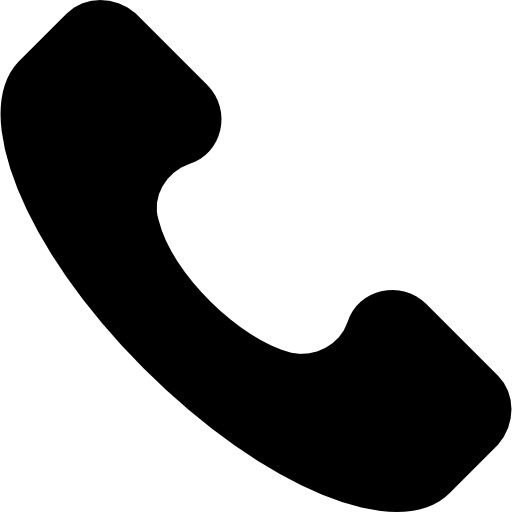
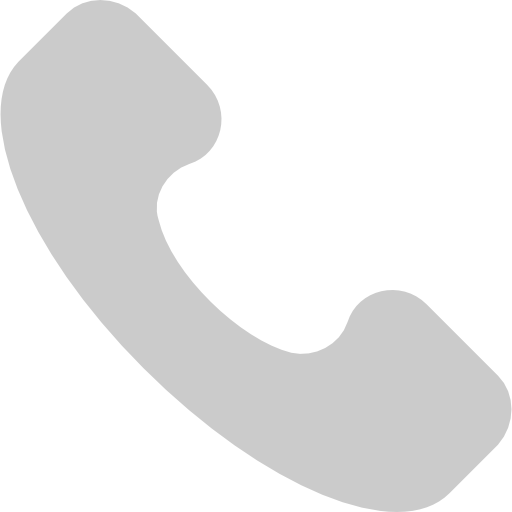
Footer html (no css)

diff --git a/footer.inc.php b/footer.inc.php
@@ -1,0 +1,19 @@
+<footer>
+    <div class="reseaux">
+        <h2>ME SUIVRE</h2>
+        <a href=""><img src="assets/GITHUB-small.png"> GitHub</a>
+        <a href=""><img src="assets/LINKEDIN-small.png"> Linkedin</a>
+    </div>
+    <div class="navigation">
+        <h2>NAVIGATION</h2>
+        <a href="#home">Accueil</a>
+        <a href="#about">À propos</a>
+        <a href="#portfolio">Portfolio</a>
+        <a href="#contact">Contact</a>
+    </div>
+    <div class="coordonnees">
+        <h2>COORDONNEES</h2>
+        <a href=""><img src="assets/email.png"> contact@mathieulp.fr</a>
+        <a href=""><img src="assets/phone.png"> 07.82.91.70.75</a>
+    </div>
+</footer>
